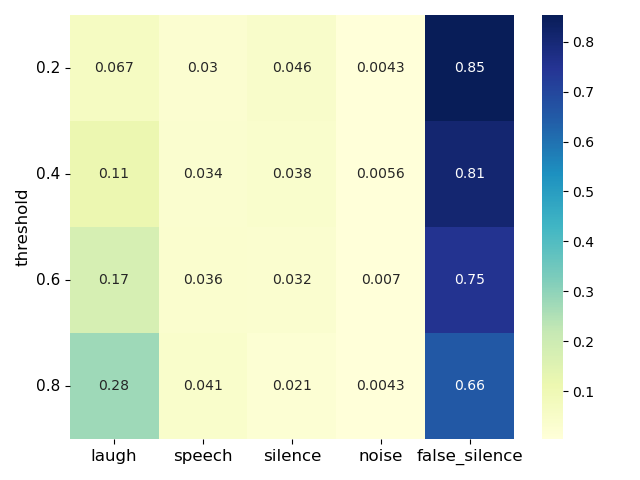
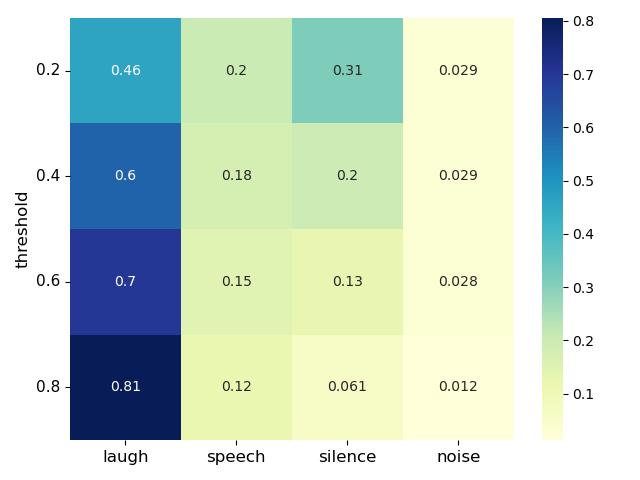
train on new dataset

diff --git a/analysis/analyse.py b/analysis/analyse.py
@@ -143,11 +143,12 @@ def laugh_match(pred_laugh, meeting_id, part_id):
     silence_mismatch = seg_index_overlap(prep.silence_index, pred_laugh, meeting_id, part_id)
     noise_mismatch = seg_index_overlap(prep.noise_index, pred_laugh, meeting_id, part_id)
     remain_mismatch = incorrect - speech_mismatch - silence_mismatch - noise_mismatch
+    
+    incorrect = incorrect - remain_mismatch
+   # assert remain_mismatch < 0.001, f"Accumulated false positives don't match the total incorrect time. Difference: {remain_mismatch}"
 
-    #assert remain_mismatch < 0.001, f"Accumulated false positives don't match the total incorrect time. Difference: {remain_mismatch}"
-
-    #return(correct, incorrect, speech_mismatch, noise_mismatch, silence_mismatch)
-    return(correct, incorrect, speech_mismatch, noise_mismatch, silence_mismatch, remain_mismatch)
+    return(correct, incorrect, speech_mismatch, noise_mismatch, silence_mismatch)
+    #return(correct, incorrect, speech_mismatch, noise_mismatch, silence_mismatch, remain_mismatch)
 
 
 def eval_preds(pred_per_meeting_df, meeting_id, threshold, min_len, print_stats=False):
@@ -190,14 +191,14 @@ def eval_preds(pred_per_meeting_df, meeting_id, threshold, min_len, print_stats=
                 # Append interval to total predicted frames for this participant
                 part_pred_frames = part_pred_frames | pred_laugh
 
-            #corr, incorr, speech, noise, silence =  laugh_match(part_pred_frames, meeting_id, part_id)
-            corr, incorr, speech, noise, silence, false_silence =  laugh_match(part_pred_frames, meeting_id, part_id)
+            corr, incorr, speech, noise, silence =  laugh_match(part_pred_frames, meeting_id, part_id)
+           # corr, incorr, speech, noise, silence, false_silence =  laugh_match(part_pred_frames, meeting_id, part_id)
             tot_corr_pred_time += corr
             tot_incorr_pred_time += incorr
             tot_fp_speech_time += speech
             tot_fp_noise_time += noise
             tot_fp_silence_time += silence
-            tot_fp_false_silence_time += false_silence
+            #tot_fp_false_silence_time += false_silence
 
     tot_predicted_time = tot_corr_pred_time + tot_incorr_pred_time
     # If there is no predicted laughter time for this meeting -> precision=1
@@ -223,12 +224,12 @@ def eval_preds(pred_per_meeting_df, meeting_id, threshold, min_len, print_stats=
               f'Precision: {prec:.4f}\n'
               f'Recall: {recall:.4f}\n')
 
-    return[meeting_id, threshold, min_len, prec, recall, tot_corr_pred_time, tot_predicted_time,
-           tot_transc_laugh_time, num_of_pred_laughs, num_of_VALID_pred_laughs, num_of_tranc_laughs, 
-           tot_fp_speech_time, tot_fp_noise_time, tot_fp_silence_time, tot_fp_false_silence_time]
     #return[meeting_id, threshold, min_len, prec, recall, tot_corr_pred_time, tot_predicted_time,
-     #                   tot_transc_laugh_time, num_of_pred_laughs, num_of_VALID_pred_laughs, num_of_tranc_laughs,
-      #                             tot_fp_speech_time, tot_fp_noise_time, tot_fp_silence_time]
+     #      tot_transc_laugh_time, num_of_pred_laughs, num_of_VALID_pred_laughs, num_of_tranc_laughs, 
+      #     tot_fp_speech_time, tot_fp_noise_time, tot_fp_silence_time, tot_fp_false_silence_time]
+    return[meeting_id, threshold, min_len, prec, recall, tot_corr_pred_time, tot_predicted_time,
+           tot_transc_laugh_time, num_of_pred_laughs, num_of_VALID_pred_laughs, num_of_tranc_laughs,
+           tot_fp_speech_time, tot_fp_noise_time, tot_fp_silence_time]
 
 def create_evaluation_df(path, out_path, use_cache=False):
     """
@@ -258,12 +259,12 @@ def create_evaluation_df(path, out_path, use_cache=False):
                     all_evals.append(out)
                     # Log progress
 
-        #cols = ['meeting', 'threshold', 'min_len', 'precision', 'recall',
-               # 'corr_pred_time', 'tot_pred_time', 'tot_transc_laugh_time', 'num_of_pred_laughs', 'valid_pred_laughs', 'num_of_transc_laughs',
-               # 'tot_fp_speech_time', 'tot_fp_noise_time', 'tot_fp_silence_time']
         cols = ['meeting', 'threshold', 'min_len', 'precision', 'recall',
                 'corr_pred_time', 'tot_pred_time', 'tot_transc_laugh_time', 'num_of_pred_laughs', 'valid_pred_laughs', 'num_of_transc_laughs',
-                'tot_fp_speech_time', 'tot_fp_noise_time', 'tot_fp_silence_time','tot_fp_false_silence_time']
+                'tot_fp_speech_time', 'tot_fp_noise_time', 'tot_fp_silence_time']
+        #cols = ['meeting', 'threshold', 'min_len', 'precision', 'recall',
+         #       'corr_pred_time', 'tot_pred_time', 'tot_transc_laugh_time', 'num_of_pred_laughs', 'valid_pred_laughs', 'num_of_transc_laughs',
+          #      'tot_fp_speech_time', 'tot_fp_noise_time', 'tot_fp_silence_time','tot_fp_false_silence_time']
         if len(cols) != len(all_evals[0]):
             raise Exception(
                 f'List returned by eval_preds() has wrong length. Expected length: {len(cols)}. Found: {len(all_evals[0])}.')

diff --git a/test_train.py b/test_train.py
@@ -1,11 +1,17 @@
 import load_data
+import numpy as np
+from lhotse import CutSet, Fbank, FbankConfig, Recording, MonoCut
 cutset_dir  = './raw_output/cutsets'
 
-dev_loader = load_data.create_training_dataloader(cutset_dir, 'dev')
+dev_loader = load_data.create_inference_dataloader('./data/icsi/speech/Bmr006/chan0.sph')
 val = iter(dev_loader)
 batch = val.next()
-segs = batch['inputs']
-labs=batch['is_laugh']
+arr = np.array(batch)
+rec = Recording.from_file('./data/icsi/speech/Bmr021/chan0.sph')
+print(rec.duration)
+print(arr.shape)
+#segs = batch['inputs']
+#labs=batch['is_laugh']
 #print(segs)
 #print(labs)
-print(batch)
+print(len(batch))

diff --git a/plot_result.py b/plot_result.py
@@ -1,4 +1,4 @@
 from visualise import plot_conf_matrix
 from visualise import plot_conf_matrix2
 
-plot_conf_matrix2('eval/eval_fix_on_fix','test',thresholds=[0.2,0.4,0.6,0.8],min_len=0.2, name = 'res_fix_fix__conf_matrix_test')
+plot_conf_matrix('eval/eval_fix_on_fix','test',thresholds=[0.2,0.4,0.6,0.8],min_len=0.2, name = 'res_fix_fix__conf_matrix_test')

diff --git a/train.py b/train.py
@@ -310,8 +310,8 @@ def run_epoch(model, mode, device, iterator, checkpoint_dir, epoch_num, optimize
         # optimizer.zero_grad()
 
         output = model(src).squeeze()
-        if model.epoch == 10:
-            print(output)
+        #if model.epoch == 0:
+         #   print(output)
 
         criterion = nn.BCELoss()
 

diff --git a/segment_laughter.py b/segment_laughter.py
@@ -105,6 +105,8 @@ def load_and_pred(audio_path, full_output_dir):
             preds = list(preds)
         probs += preds
     probs = np.array(probs)
+    print(probs.size)
+    
 
     file_length = audio_utils.get_audio_length(audio_path)
 

diff --git a/models.py b/models.py
@@ -527,7 +527,6 @@ class ResNetBigger(nn.Module):
         out = F.relu(out)
         out = self.linear2(out)
         out = torch.sigmoid(out)
-        print(out)
         return out
 
     def set_device(self, device):
